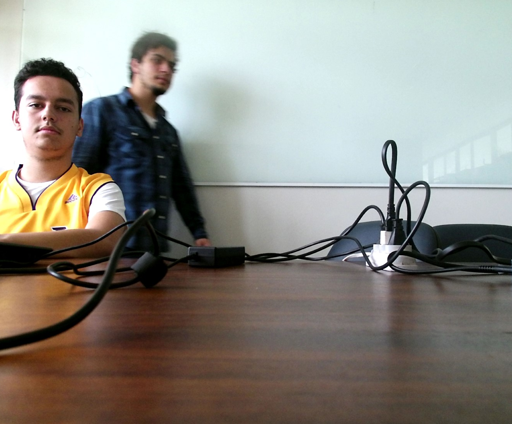
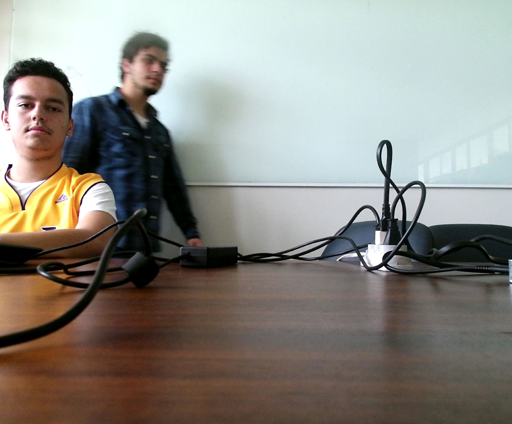
Recimensionaento Regra 3

diff --git a/proj.m b/proj.m
@@ -44,7 +44,7 @@ color_frame = importdata('input_frames\ColorFrame0102.jpg');
 [color_height, color_width, color_dimension] = size(color_frame);
 % Cortando o arquivo ColorFrame JPG 
 % Posicionamento da selecao para o corte: [xmin ymin width height]
-cropped_color_frame = imcrop(color_frame,[280 0 1324 1080]); %figure(), imshow(cropped_color_frame);
+cropped_color_frame = imcrop(color_frame,[308 0 1304 1080]); %figure(), imshow(cropped_color_frame);
 % Redimensionando o arquivo ColorFrame JPG
 resized_color_frame = imresize(cropped_color_frame, [depth_height depth_width]);
 figure(), imshow(resized_color_frame);
